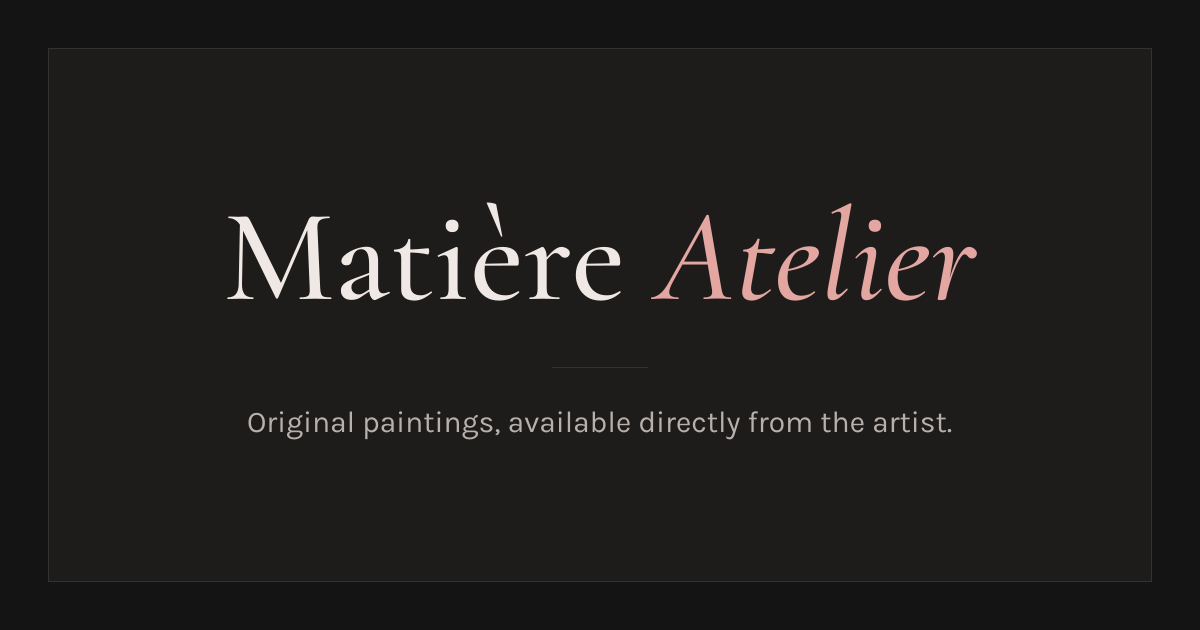
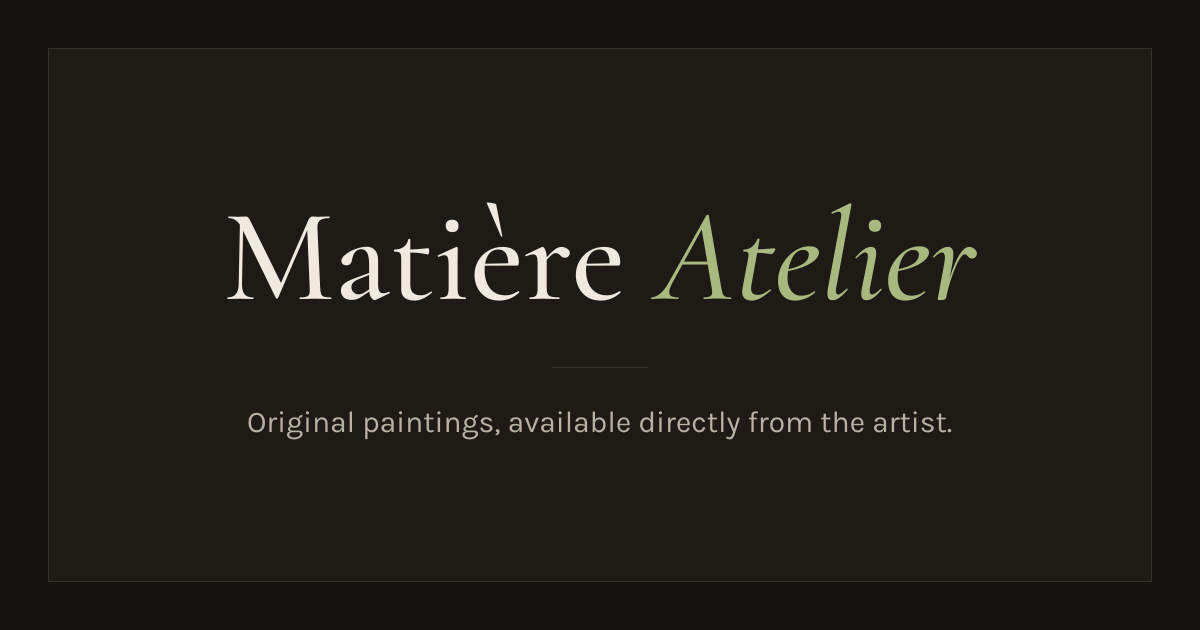
Warm dark palette with a sage accent; olive admin bar in both themes

Changed region(s): [[0.5242, 0.3317, 0.8325, 0.4825]]

diff --git a/src/components/admin/collection/CollectionEditor.tsx b/src/components/admin/collection/CollectionEditor.tsx
@@ -313,7 +313,7 @@ export function CollectionEditor({ initialWorks, initialSettings, initialSelecte
 
   return (
     <>
-      <div className="z-40 border-t border-on-accent/15 bg-accent text-on-accent md:sticky md:top-0">
+      <div className="z-40 border-t border-on-admin/15 bg-admin text-on-admin md:sticky md:top-0">
         <div className="mx-auto flex max-w-[82.5rem] flex-wrap items-center justify-between gap-x-6 gap-y-3 px-4 py-2.5 sm:px-8">
           <p className="text-sm">{t("hint")}</p>
           <div className="flex flex-wrap items-center gap-3">
@@ -327,7 +327,7 @@ export function CollectionEditor({ initialWorks, initialSettings, initialSelecte
                 setRateFailed(false);
               }}
               aria-describedby={unconverted || conversion ? "admin-currency-note" : undefined}
-              className="min-h-10 cursor-pointer border border-on-accent bg-transparent px-3 text-sm font-semibold text-on-accent focus-visible:outline-2 focus-visible:outline-offset-2 focus-visible:outline-on-accent [&>option]:bg-panel [&>option]:font-normal [&>option]:text-ink"
+              className="min-h-10 cursor-pointer border border-on-admin bg-transparent px-3 text-sm font-semibold text-on-admin focus-visible:outline-2 focus-visible:outline-offset-2 focus-visible:outline-on-admin [&>option]:bg-panel [&>option]:font-normal [&>option]:text-ink"
             >
               {SHOP_CURRENCIES.map((code) => (
                 <option key={code} value={code}>{t("currencies", { code })}</option>
@@ -339,16 +339,16 @@ export function CollectionEditor({ initialWorks, initialSettings, initialSelecte
               aria-checked={showPrices}
               aria-describedby="admin-show-prices-hint"
               onClick={() => setShowPrices((on) => !on)}
-              className="inline-flex min-h-10 items-center gap-2.5 text-sm font-semibold focus-visible:outline-2 focus-visible:outline-offset-2 focus-visible:outline-on-accent"
+              className="inline-flex min-h-10 items-center gap-2.5 text-sm font-semibold focus-visible:outline-2 focus-visible:outline-offset-2 focus-visible:outline-on-admin"
             >
               {t("showPrices")}
               <span
                 aria-hidden="true"
-                className={`relative h-6 w-11 rounded-full border border-on-accent ${showPrices ? "bg-on-accent" : ""}`}
+                className={`relative h-6 w-11 rounded-full border border-on-admin ${showPrices ? "bg-on-admin" : ""}`}
               >
                 <span
                   className={`absolute top-0.5 left-0.5 size-4.5 rounded-full motion-safe:transition-transform ${
-                    showPrices ? "translate-x-5 bg-accent" : "bg-on-accent"
+                    showPrices ? "translate-x-5 bg-admin" : "bg-on-admin"
                   }`}
                 />
               </span>
@@ -356,12 +356,12 @@ export function CollectionEditor({ initialWorks, initialSettings, initialSelecte
             </button>
             <fieldset className="flex items-center gap-2.5" aria-describedby="admin-theme-hint">
               <legend className="float-left mr-2.5 text-sm font-semibold">{t("theme")}</legend>
-              <span className="flex border border-on-accent">
+              <span className="flex border border-on-admin">
                 {(["dark", "light"] as const).map((option) => (
                   <label
                     key={option}
-                    className={`inline-flex min-h-10 cursor-pointer items-center px-3 text-sm focus-within:outline-2 focus-within:outline-on-accent ${
-                      theme === option ? "bg-on-accent font-semibold text-accent" : ""
+                    className={`inline-flex min-h-10 cursor-pointer items-center px-3 text-sm focus-within:outline-2 focus-within:outline-on-admin ${
+                      theme === option ? "bg-on-admin font-semibold text-admin" : ""
                     }`}
                   >
                     <input
@@ -377,7 +377,7 @@ export function CollectionEditor({ initialWorks, initialSettings, initialSelecte
                 ))}
               </span>
             </fieldset>
-            <label className="relative inline-flex min-h-10 cursor-pointer items-center border border-on-accent px-3.5 text-sm font-semibold focus-within:outline-2 focus-within:outline-on-accent">
+            <label className="relative inline-flex min-h-10 cursor-pointer items-center border border-on-admin px-3.5 text-sm font-semibold focus-within:outline-2 focus-within:outline-on-admin">
               {t("upload")}
               <input
                 type="file"
@@ -401,7 +401,7 @@ export function CollectionEditor({ initialWorks, initialSettings, initialSelecte
               type="button"
               onClick={publish}
               disabled={!dirty || publishing || uploading !== null}
-              className="min-h-10 bg-on-accent px-4.5 text-sm font-semibold text-accent disabled:opacity-60"
+              className="min-h-10 bg-on-admin px-4.5 text-sm font-semibold text-admin disabled:opacity-60"
             >
               {publishing ? t("publishing") : t("publish")}
             </button>
@@ -413,7 +413,7 @@ export function CollectionEditor({ initialWorks, initialSettings, initialSelecte
                 type="button"
                 onClick={convertPrices}
                 disabled={converting}
-                className="min-h-10 border border-on-accent px-3.5 font-semibold disabled:opacity-60"
+                className="min-h-10 border border-on-admin px-3.5 font-semibold disabled:opacity-60"
               >
                 {converting ? t("converting") : t("convert", { from: amountsCurrency, to: currency })}
               </button>

diff --git a/src/app/tokens.css b/src/app/tokens.css
@@ -1,23 +1,26 @@
 /*
- * Design tokens: the "Two-up Spreads" look (dark gallery wall, one warm
- * accent) and its light "Warm Linen" theme. Changing the palette or type is a
+ * Design tokens: the "Two-up Spreads" look (warm dark gallery wall, one sage
+ * accent; palette from "Art Storefront Screens", 2026-10-13) and its light
+ * "Warm Linen" theme. Changing the palette or type is a
  * change to this file only. Tailwind's default palette is cleared so
  * components can only use these.
  */
 @theme {
   --color-*: initial;
-  --color-paper: #141414; /* page background, like a dark gallery wall */
-  --color-panel: #1d1c1b; /* the panel each piece hangs on */
-  --color-ink: #efe8e4; /* text (16:1 on paper) */
-  --color-muted: #b8b0ab; /* secondary text (9:1 on paper, 8.3:1 on panel) */
-  --color-faint: #a39e96; /* footer text (7:1 on paper) */
-  --color-accent: #e3a6a1; /* numbers, cart, buttons, one word of a heading (9:1 on paper) */
-  --color-line: #34312f; /* hairline dividers */
-  --color-control: #6e6863; /* borders of admin controls (3:1 on panel, 3.3:1 on paper) */
+  --color-paper: #15130f; /* page background, a warm dark gallery wall */
+  --color-panel: #1e1b16; /* the panel each piece hangs on */
+  --color-ink: #efe9df; /* text (15:1 on paper) */
+  --color-muted: #b9b1a4; /* secondary text (8.7:1 on paper, 8.1:1 on panel) */
+  --color-faint: #a49c8f; /* footer text (6.8:1 on paper) */
+  --color-accent: #a9b87e; /* sage: numbers, cart, buttons, one word of a heading (8.7:1 on paper) */
+  --color-line: #36322a; /* hairline dividers */
+  --color-control: #716a5e; /* borders of admin controls (3.2:1 on panel, 3.5:1 on paper) */
   --color-warn: #e8c27a; /* admin only: "No price set", "Needs attention" (10:1 on panel) */
-  --color-field: #1d1c1b; /* form field background */
-  --color-on-accent: #141414; /* text and icons on an accent background */
-  --color-well: #181717; /* admin: the "Add new works" drop area */
+  --color-field: #1e1b16; /* form field background */
+  --color-on-accent: #15130f; /* text and icons on an accent background */
+  --color-well: #1a1813; /* admin: the "Add new works" drop area */
+  --color-admin: #4f5d2f; /* admin bar and toolbar: olive in both themes */
+  --color-on-admin: #f4f0e6; /* text and controls on the admin bar (6.3:1) */
 
   --font-sans: var(--font-karla), ui-sans-serif, system-ui, sans-serif;
   --font-serif: var(--font-cormorant), ui-serif, Georgia, serif;

diff --git a/src/app/admin/(panel)/layout.tsx b/src/app/admin/(panel)/layout.tsx
@@ -16,14 +16,14 @@ export default async function AdminPanelLayout({ children }: { children: React.R
   return (
     <>
       <RememberAdmin />
-      <div className="bg-accent text-on-accent">
+      <div className="bg-admin text-on-admin">
         <div className="mx-auto flex max-w-[82.5rem] flex-wrap items-center justify-between gap-x-6 gap-y-2 px-4 py-2 sm:px-8">
           <strong className="label-caps">{t("mode")}</strong>
           <nav aria-label={t("label")}>
             <ul className="flex flex-wrap items-center gap-x-5 text-sm">
-              <li><a href="/admin" className="inline-flex min-h-10 items-center underline-offset-4 hover:text-on-accent hover:underline">{t("artworks")}</a></li>
-              <li><a href="/admin/about" className="inline-flex min-h-10 items-center underline-offset-4 hover:text-on-accent hover:underline">{t("about")}</a></li>
-              <li><a href={`/${routing.defaultLocale}/originals`} className="inline-flex min-h-10 items-center underline-offset-4 hover:text-on-accent hover:underline">{t("viewSite")}</a></li>
+              <li><a href="/admin" className="inline-flex min-h-10 items-center underline-offset-4 hover:text-on-admin hover:underline">{t("artworks")}</a></li>
+              <li><a href="/admin/about" className="inline-flex min-h-10 items-center underline-offset-4 hover:text-on-admin hover:underline">{t("about")}</a></li>
+              <li><a href={`/${routing.defaultLocale}/originals`} className="inline-flex min-h-10 items-center underline-offset-4 hover:text-on-admin hover:underline">{t("viewSite")}</a></li>
               <li><LogoutForm label={t("logout")} /></li>
             </ul>
           </nav>

diff --git a/CLAUDE.md b/CLAUDE.md
@@ -101,7 +101,7 @@ src/
       upload/process/route.ts     step 2: sharp turns the uploaded original into the stored WebP and deletes the original
       login/page.tsx              split layout: featured piece, sign-in form
       forgot/page.tsx, reset/page.tsx  admin password reset by email
-      (panel)/layout.tsx          pink "Admin mode" bar with the admin links; checks the session
+      (panel)/layout.tsx          olive "Admin mode" bar with the admin links; checks the session
       (panel)/page.tsx            the collection editor (see "Collection editor" below)
       (panel)/about/page.tsx      About page editor (portrait and bio)
   components/
@@ -310,7 +310,7 @@ Every component that shows a price, availability, or buy action gets it from `ge
 
 ### Collection editor (`/admin`)
 - Design: Claude Design "Art Storefront Layouts – ADMIN PANEL · admin" (adopted 2026-10-11). The page shows the collection as visitors see it (storefront header, Originals intro, two-up cards, footer) with admin controls on top. Header and footer there are a picture of the storefront, not links.
-- Pink bar: "Admin mode" with links to Collection, About page, View site, Log out (plain `<a>`, so leaving with unpublished changes triggers the browser's warning). Under it, on this page, the toolbar: hint, **Currency** select, **Show prices** switch (On/Off; its explanation shows once it differs from the live setting), **Theme** (Dark | Light: the default every visitor sees; the admin page previews it as you switch), "+ Upload works", "Unpublished changes" / "All changes are live", and **Publish changes**. The toolbar sticks to the top from 768 px up.
+- Olive bar: "Admin mode" with links to Collection, About page, View site, Log out (plain `<a>`, so leaving with unpublished changes triggers the browser's warning). Under it, on this page, the toolbar: hint, **Currency** select, **Show prices** switch (On/Off; its explanation shows once it differs from the live setting), **Theme** (Dark | Light: the default every visitor sees; the admin page previews it as you switch), "+ Upload works", "Unpublished changes" / "All changes are live", and **Publish changes**. The toolbar sticks to the top from 768 px up.
 - Each card: drag handle with "Drag to move · Row 2, left" (left, middle or right in three columns) ("Position 3 of 8" on phones), ← / → buttons, and **Edit**. Below, the same parts as the storefront card; its "View piece ↗" opens the piece's live page in a new tab (dimmed for drafts and new pieces, which have no page yet; the address is the published one until Publish). "No price set", "Check the price", "Draft, not on the site" and "Needs attention" show in the warning color. With "Show prices" off the cards hide their prices (and the header picture its cart link), as the site does; the price warnings stay so they can be fixed. All artworks are listed, drafts included.
 - **Add new works** tile at the end (also "+ Upload works" and dropping files on a card): each image becomes a new draft piece titled after its file name, added at the end, and the edit panel opens on it.
 - **Edit panel** (fixed on the right, full width on phones): image preview and "Replace image" (the cover), Name, Price (shop currency symbol in front; "Shown on the site as …"), Description (MarkdownField), then More details: size, price mode (Price, Auction (WIP) only where already set, Display), status, "Show on the site", web address, all images with alt text and order. "Delete this piece" deletes right away after confirmation (not on Publish). "Done" closes the panel.
@@ -386,7 +386,7 @@ MAIL_TO=                  # the artist's inbox for inquiries
 
 ## Design
 
-- Look: "Two-up Spreads" (Claude Design, adopted 2026-10-11). A dark gallery wall (`#141414`) with slightly lighter panels behind the work, warm off-white text and one dusty-pink accent used sparingly (card numbers, cart link, buttons, one word of the Originals title). All tokens live in `src/app/tokens.css`, so changing the palette is a one-file change.
+- Look: "Two-up Spreads" (Claude Design, adopted 2026-10-11), with the warmer palette from "Art Storefront Screens" (2026-10-13): a warm dark gallery wall (`#15130f`) with slightly lighter panels behind the work, warm off-white text and one sage accent (`#a9b87e`, replacing the earlier dusty pink) used sparingly (card numbers, cart link, buttons, one word of the Originals title). The admin bar and toolbar are olive (`admin`, `on-admin` tokens) in both themes. All tokens live in `src/app/tokens.css`, so changing the palette is a one-file change.
 - Light theme: "Warm Linen" (Claude Design, adopted 2026-10-12): linen ground (`#eee6da`), paper-white panels, dark brown text, an olive accent (`#4f5d2f`), filled primary buttons and a soft shadow under the art. It is the same tokens redefined under `<html data-theme="light">`; components use tokens only (`on-accent` for anything drawn on the accent, `well`, `--shadow-art`), never fixed colors. Control borders are darker than the design's (`#8f8170`) to keep 3:1.
 - Theme choice: the admin sets the default (`SiteSettings.theme`, Theme in the collection toolbar). Visitors can switch with "Light mode"/"Dark mode" (header from 1024 px, menu, footer); the choice is kept in localStorage and applied by an inline script before paint, so pages stay static and never flash.
 - Type: Cormorant Garamond for headings and numbers, Karla for everything else, both through `next/font/google` (`src/app/fonts.ts`).
